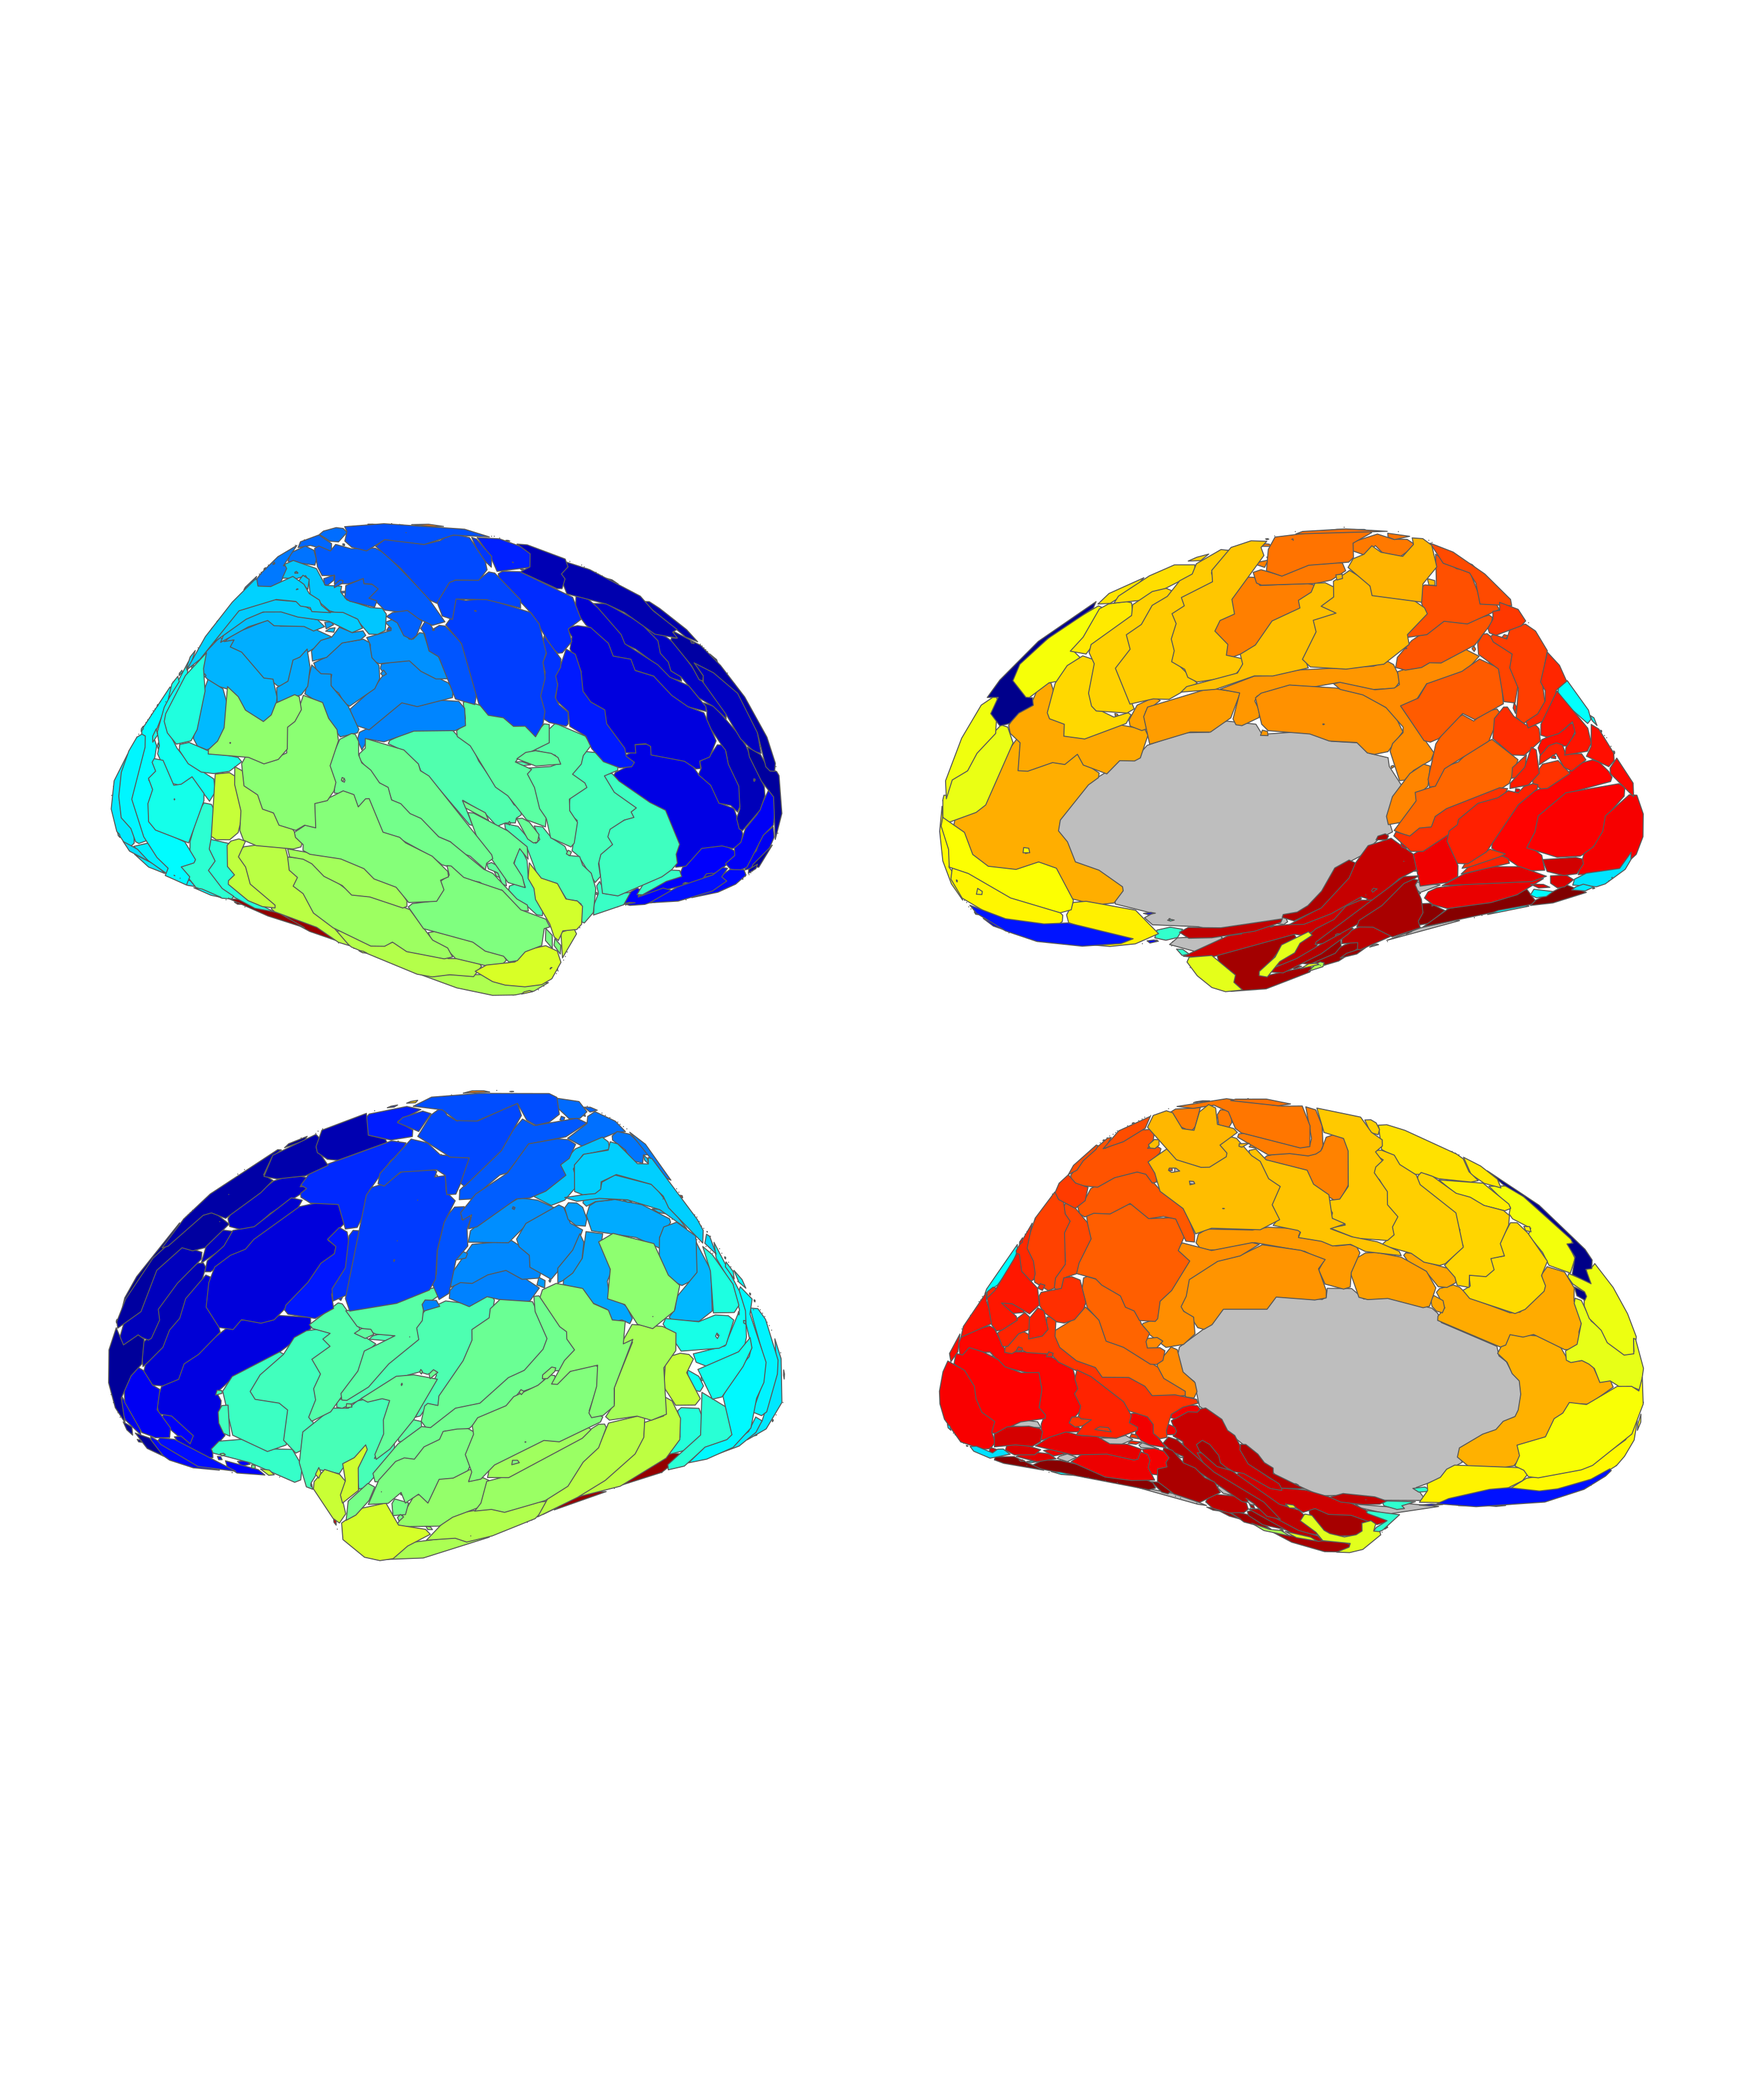
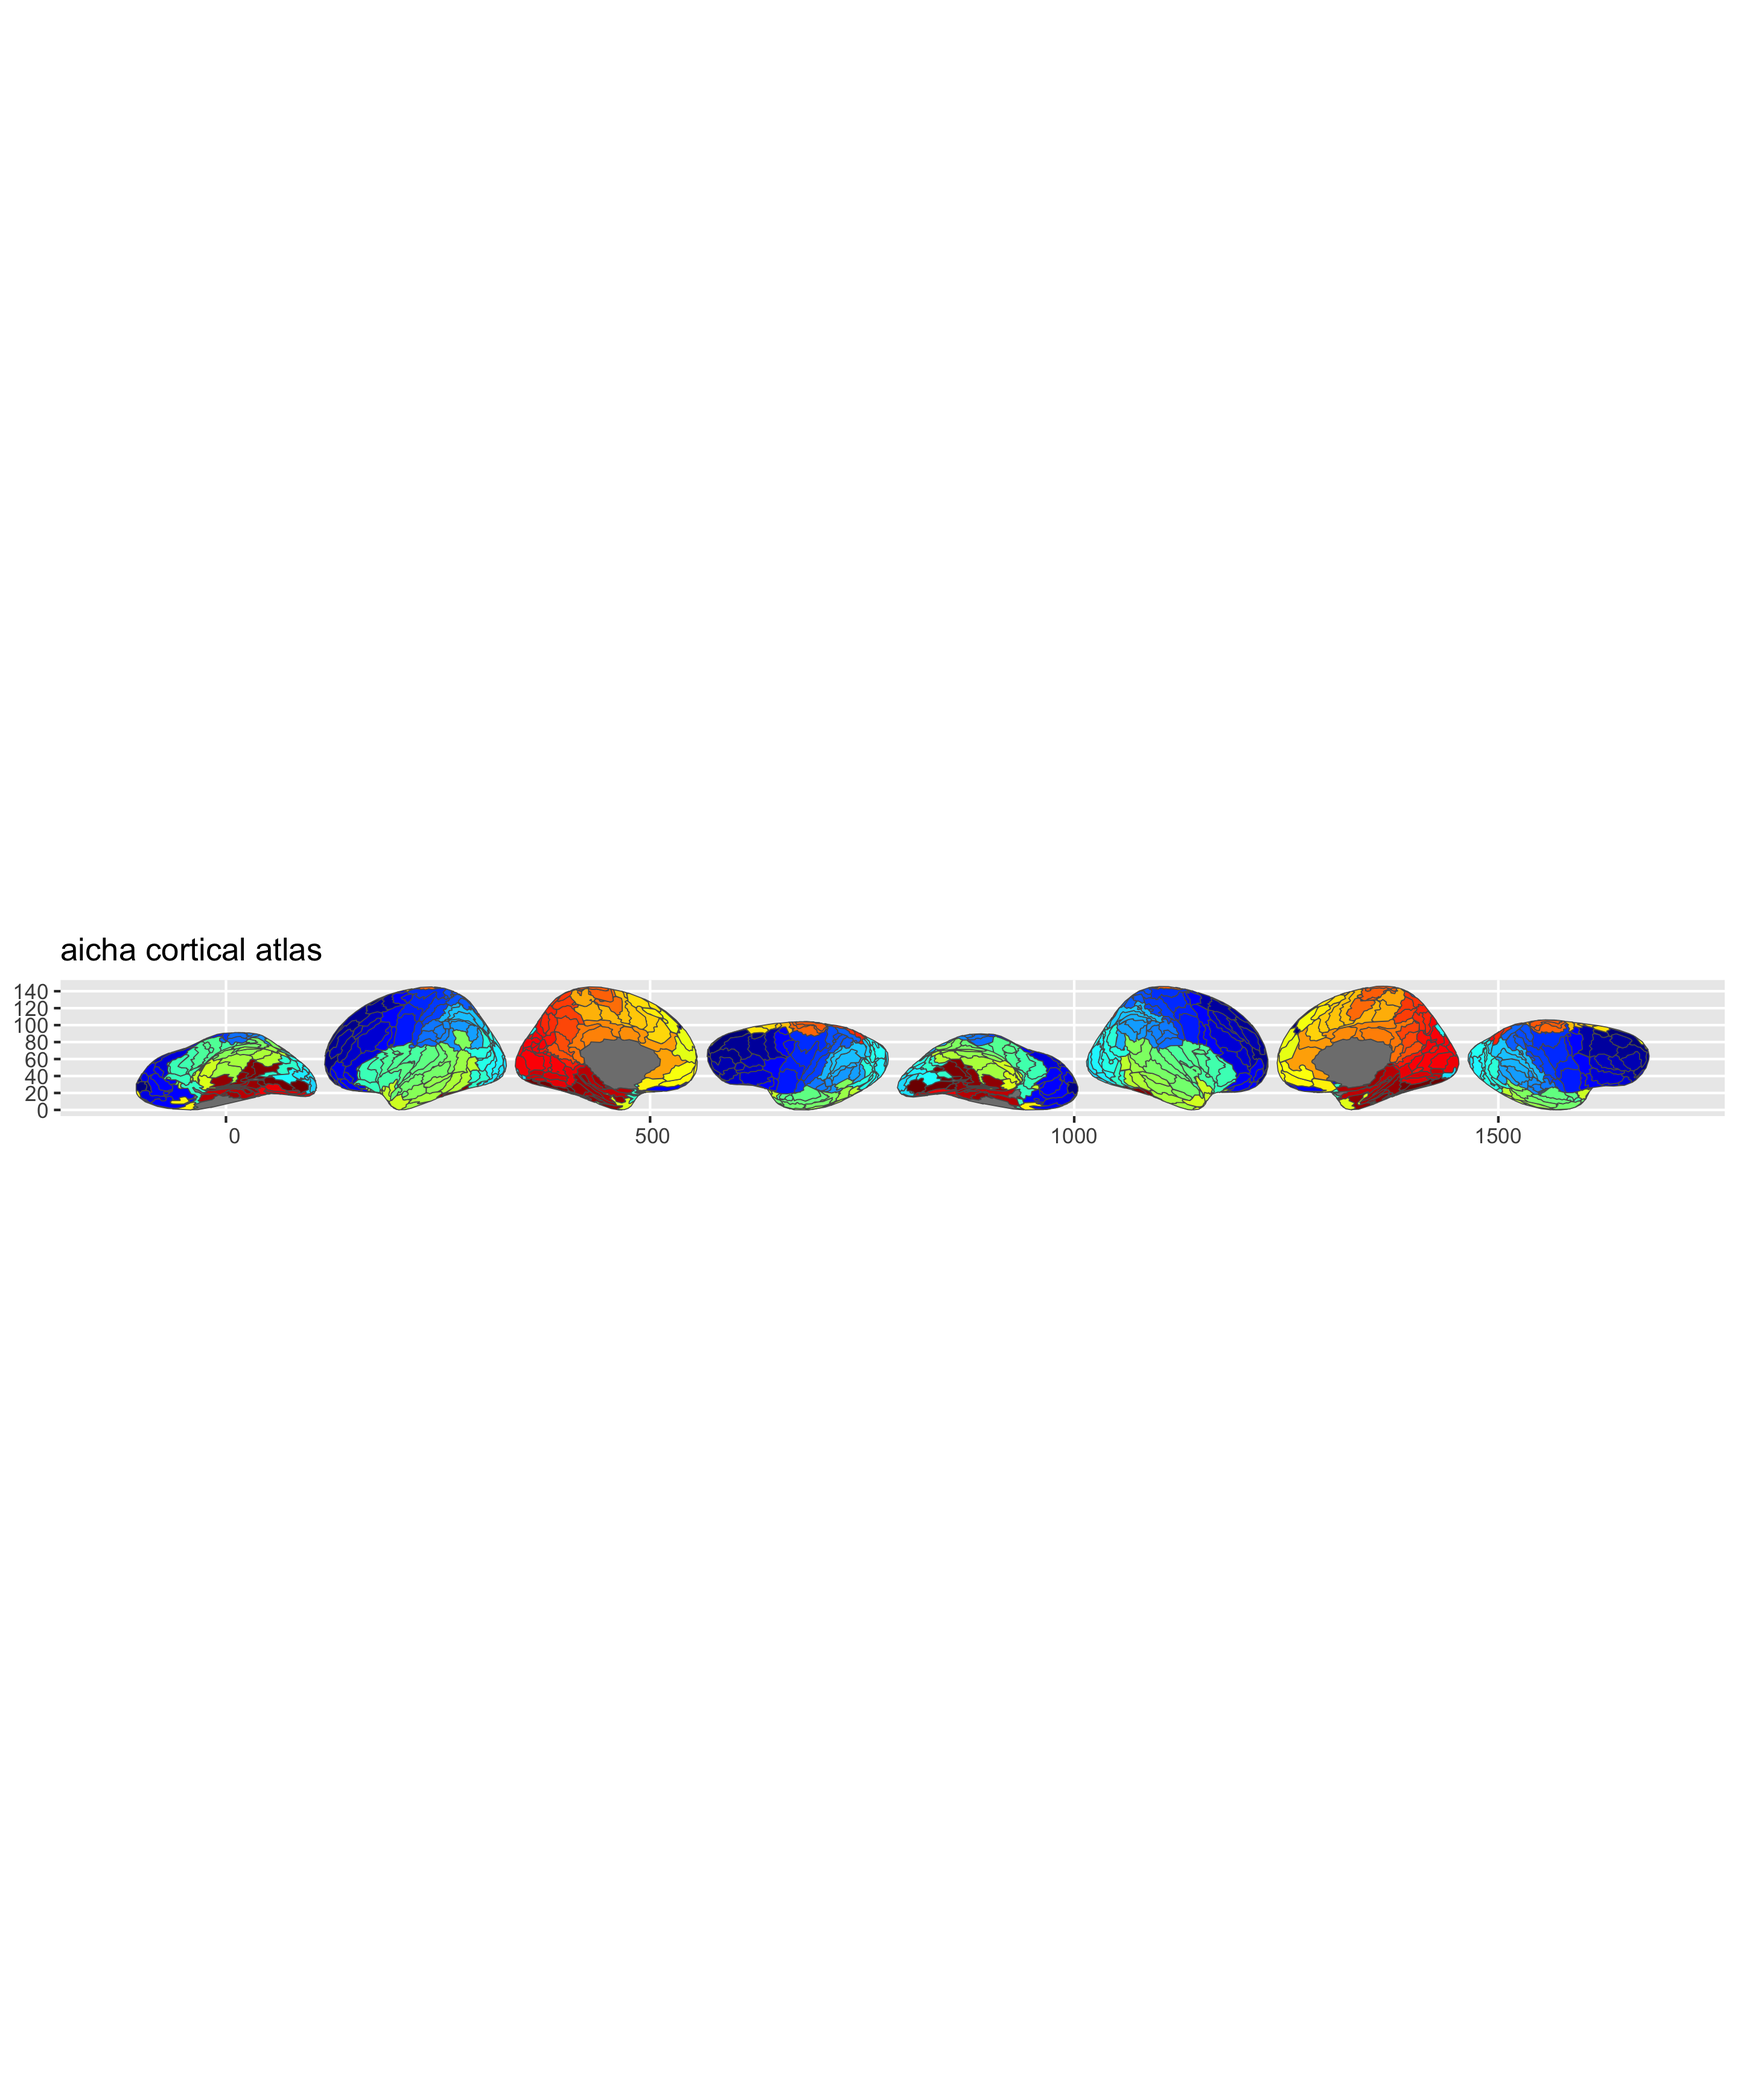
Simplify README plot examples to use plot()
Remove explicit ggplot() + geom_brain(mapping = aes(fill = label)) +
scale_fill_manual() in favour of plot(), which handles colours by default.

diff --git a/README.md b/README.md
@@ -1,44 +1,71 @@
 
-<!-- README.md is generated from README.Rmd. Please edit that file -->
 
-# ggsegAicha
+<!-- README.md is generated from README.qmd. Please edit that file -->
+
+# ggsegAicha <img src='man/figures/logo.png' align="right" height="138.5" />
 
 <!-- badges: start -->
 
-[![R-CMD-check](https://github.com/ggsegverse/ggsegAicha/actions/workflows/R-CMD-check.yaml/badge.svg)](https://github.com/ggsegverse/ggsegAicha/actions/workflows/R-CMD-check.yaml)
-[![r-universe](https://ggsegverse.r-universe.dev/badges/ggsegAicha)](https://ggsegverse.r-universe.dev/ggsegAicha)
+[![R-CMD-check](https://github.com/ggseg/ggsegAicha/workflows/R-CMD-check/badge.svg)](https://github.com/ggseg/ggsegAicha/actions)
+[![DOI](https://zenodo.org/badge/417476540.svg)](https://zenodo.org/badge/latestdoi/417476540)
+[![CRAN
+status](https://www.r-pkg.org/badges/version/ggsegAicha.png)](https://CRAN.R-project.org/package=ggsegAicha)
 <!-- badges: end -->
 
-AICHA Atlas for the ggsegverse Ecosystem.
+This package contains dataset for plotting the
+[AICHA](https://pubmed.ncbi.nlm.nih.gov/26213217/) atlas for ggseg and
+ggseg3d.
+
+Joliot, M., Jobard, G., Naveau, M., Delcroix, N., Petit, L., Zago, L., …
+& Tzourio-Mazoyer, N. (2015). AICHA: An atlas of intrinsic connectivity
+of homotopic areas. Journal of neuroscience methods, 254, 46-59.
+([PubMed](https://pubmed.ncbi.nlm.nih.gov/26213217/))
+
+To learn how to use these atlases, please look at the documentation for
+[ggseg](https://ggseg.github.io/ggseg/) and
+[ggseg3d](https://ggseg.github.io/ggseg3d)
 
 ## Installation
 
-``` r
-# From r-universe
-install.packages("ggsegAicha", repos = "https://ggsegverse.r-universe.dev")
+We recommend installing the ggseg-atlases through the ggseg
+[r-universe](https://ggseg.r-universe.dev/ui#builds):
 
-# From GitHub
-# install.packages("remotes")
-remotes::install_github("ggsegverse/ggsegAicha")
+``` r
+options(repos = c(
+  ggseg = "https://ggseg.r-universe.dev",
+  CRAN = "https://cloud.r-project.org"
+))
+
+install.packages("ggsegAicha")
 ```
 
-## Atlases
+You can install from [GitHub](https://github.com/) with:
 
-### aicha
+``` r
+# install.packages("remotes")
+remotes::install_github("ggseg/ggsegAicha")
+```
 
-Atlas of Intrinsic Connectivity of Homotopic Areas.
+## Example
 
 ``` r
 library(ggsegAicha)
+library(ggseg)
+
 plot(aicha())
 ```
 
-<img src="man/figures/README-aicha-1.png" alt="" width="100%" /> \##
-Data source
+<img src="man/figures/README-2d-plot-1.png" style="width:100.0%" />
 
-Annotation files on fsaverage5.
+``` r
+library(ggseg3d)
 
-- **Reference**: Joliot et al. (2015)
-  [doi:10.1016/j.jneumeth.2015.07.013](https://doi.org/10.1016/j.jneumeth.2015.07.013)
+ggseg3d(atlas = aicha()) |>
+  pan_camera("right lateral")
+```
 
-- **Date obtained**: 2021-10-15
+<img src="man/figures/README-3d-plot.png" style="width:100.0%" />
+
+Please note that the ‘ggsegAicha’ project is released with a
+[Contributor Code of Conduct](CODE_OF_CONDUCT.md). By contributing to
+this project, you agree to abide by its terms.
